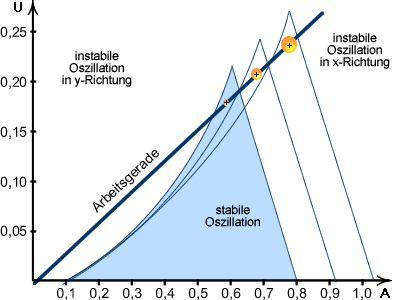
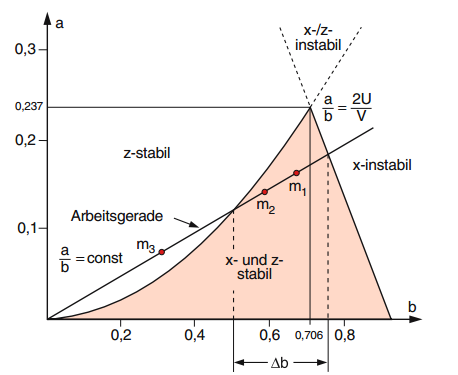
qme vorbereitung endlich fast fertig...-.-

diff --git a/qme/einfuehrung.tex b/qme/einfuehrung.tex
@@ -7,7 +7,7 @@ In der Physik setzt man Massenspektrometer ein, um Informationen über Isotopenz
 Ein Quadrupol-Massenspektrometer erzeugt ein elektrisches Feld. Je nach stärke der anliegenden Felder und dem Ladungs-/Massenverhältnisses der Ionen, bewegen sie sich auf stabilen oder instabilen Bahnen. Je nach dem, wie man diese Parameter variiert, werden verschiedene Ionen auf stabile Bahnen gebracht und so durch den QMS gelassen. Diesen Filtervorgang nennt man Massenfiltern.\\
 Der Quadrupol-Massenspektrometer befindet sich dabei in einer Vakuum-Kammer (Rezipient) um ungewollte Stöße der Ionen mit anderen Teilchen zu vermeiden. Dieses Vakuum wird mit zwei Pumpen erzeugt (siehe Abb. 1) Die Ionen treffen schließlich auf einen Detektor, der den Ionenstrom misst und die Daten weiter an einen Computer sendet. Mit Hilfe eine Software (in unserem Fall LabView) werden anschließend die Daten ausgewertet.
 
-\myImage[9cm]{img/qme1}{Anordnung der Elektroden des Massenfilters}
+\myImage[13cm]{img/qme1}{Quadrupolmassenspektrometer (a) Äquipotentiallinien; (b) hyperbolische Elektroden [3]}
 
 \newpage
 \subsection{Die Mathieuschen Differentialgleichung}
@@ -60,7 +60,7 @@ $$\\$$
 \ddot{z} - \frac{e}{mr_{0}^{2}}(U+V cos (\omega t)) z = 0
 \end{equation}
 
-Das Feld im QMS ist ein periodisches inhomogenes Feld, weswegen sich die zeitabhängigen Terme nicht wegkürzen. Die Gleichungen aus (6) haben die Form von Mathieuschen Differentialgleichungen, deren Normalform lauten:
+Das Feld im QMS (siehe Abb. 1 a)) ist ein periodisches inhomogenes Feld, weswegen sich die zeitabhängigen Terme nicht wegkürzen. Die Gleichungen aus (6) haben die Form von Mathieuschen Differentialgleichungen, deren Normalform lauten:
 
 \begin{equation}
 \frac{d^{2}x}{t\tau^{2}}+(a_{x}+2q_{x}cos (2\tau)) x = 0
@@ -74,52 +74,22 @@ Aus dem Vergleich mit den Gleichungen (6) folgt, dass für die Parameter $a_{x}$
 a_{x} = -a_{z} = \frac{4eU}{mr_{0}^{2}\omega^{2}},\qquad q_{x}= -q_{z}= \frac{4eV}{mr_{0}^{2}\omega^{2}},\qquad \tau =\frac{\omega t}{2}
 \end{equation}
 
+Die Differentialgleichungen haben somit zwei Arten von Lösungen. Bei der einen Lösung bewegen sich die Ionen auf stabile Bahnen. Sie oszillieren in x-z-Richtung und gelangen durch den Quadrupolfilter ohne die Elektroden zu berühren. Bei der zweiten Lösung vergrößert sich die Amplitude der Ionen in x-z-Richtung exponentiell. Dadurch bewegen sich die Ionen auf instabile Bahnen und kollidieren mit den Elektroden (siehe Abb. 2 und 3)
 
+\myImage[7cm]{img/xzs}{Beispiel für eine stabile Bahn}
+
+\myImage[7cm]{img/xzi}{Beispiel für eine instabile Bahn}
 
 \subsection{Stabilitätsdiagramme}
-Um die Bewegung der Ionen durch den Quadrupol mathematisch-physikalisch zu beschreiben, benutzt man einen Plot, in dem man U über A aufträgt. Die Mathieu'schen Gleichungen haben zwei Arten von Lösungen. Eine Lösung führt zu endlichen Amplituden der Oszillationen, das entspricht einer stabilen Trajektorie durch den Quadrupol. Die andere Lösung führt zu Trajektorien, die in x- und/oder y-Richtung exponenziell anwachsen. Auf der Arbeitsgeraden befinden sich alle beobachteten Massen der Ionen. Alle a/q-Werte, die stabile Flugbahnen durch den Quadrupol ergeben, liegen in Abb. 2 innerhalb des schraffierten Feldes. Die Masse des Ions legt das Maximum des Stabilitätsfeldes fest. Stimmt man die Parameter U und A durch, so bewegt man sich auf der Arbeitsgeraden. Durch diese Methode gelangt eine Masse nach der anderen in den Bereich stabiler Oszillationen und kann detektiert werden.
+Um die Bewegung der Ionen durch den Quadrupol mathematisch-physikalisch zu beschreiben, benutzt man einen Plot, in dem man q über a aufträgt (siehe Abb. 4, q entspricht hier b). Das Verhältnis zwischen a und q beträgt konstant $\frac{2U}{V}$. Verändert man nur die Spannungen in einem gewissen Verhältnis zueinander, so bewegt man sich auf der Arbeitsgeraden. Alle a/q-Werte, die stabile Flugbahnen durch den Quadrupol ergeben, liegen in Abb. 5 innerhalb des eingefärbten Feldes. Die Masse des Ions legt das Maximum des Stabilitätsfeldes fest. Durch diese Methode gelangt eine Masse nach der anderen in den Bereich stabiler Oszillationen und kann detektiert werden.
+
+\myImage[9cm]{img/stab}{Komplettes Stabilitätsdiagramm}
 
 \myImage[9cm]{img/qme2}{Beispiel eines Stabilitätsdiagramms 1. Ordnung}
 
-\newpage
-\section{Aufgaben}
-\subsection*{Aufgabe 1 - Einschalten}
-Beim Einschalten des Massenspektrometers muss der Druck im Rezipienten unbedingt kleiner als $5 \cdot 10^{-5}$ mbar sein. Es gilt folgende Reihenfolge zu beachten:\\ 
-1. QMS-Steuergerät ein (Emission steht auf OFF!)\\ 
-2. Externe Spannungsquellen (200 V und 100 V) ein\\ 
-3. Emission auf ON, LANGSAM auf 0.2 mA hochregeln\\ 
-4. Sekundärelektronenverstärker (SEV) auf ON\\
-Die Geräte werden nach dem Experiment in umgekehrter Reihenfolge wieder ausgeschaltet. Des weiteren sind folgende Spannungen einzustellen:\\ 
-UFR= 113 V   (Formationsraum), \\
-UKA= 0 V   (Kathode), \\
-UFA= 106 V   (Feldachse). \\
-Das Einschalten des Heizdrahts (Filament) hat einen Druckanstieg im Rezipienten zur Folge. Wenn der Druck wieder den Ausgangswert erreicht hat (nach ca. 30 bis 40 min) kann mit der Messung begonnen werden. \\
+Um die Massen zu unterscheiden, definiert man die sogenannte Massenauflösung mit der Formel:
+\begin{equation}
+M = \frac{m}{\Delta m}
+\end{equation} 
 
-\subsection*{Aufgabe 2 - Restgas Messung} 
-Die Massenspektren werden mit Hilfe eines LabView-Programms auf dem PC aufgenommen. Die Auflösung des QMS sollte bei dieser Messung kalibriert sein (Resolution auf CAL). Bei zu kleiner Intensität kann mit erhöhter Verstärkung gemessen werden. Welche Massen sind zu erwarten? \\
-Normieren Sie das Spektrum auf den Druck im Rezipienten,sodass die Peak-Intensitäten dem Partialdruck des jeweiligen Atoms bzw. Moleküls entsprechen. (Massen $0-100$, 0.1 steps, 100 ms pro Kanal) 
-
-\subsection*{Aufgabe 3 - Testgas 1 (Argon) dosieren}
-Achtung: Vor dem Einlassen des Testgases unbedingt sowohl die Emission als auch den SEV ausschalten! Das Dosierventil ist mit äußerster Vorsicht zu bedienen! Es ist zu vermeiden, dass der Druck beim Öffnen des Ventils auf größer als 5 $5 \cdot 10^{-4}$ mbar ansteigt, da ein zu großer Druckstoß die Pumpen beschädigen kann. Zur Dosierung der Testgase wird wie folgt vorgegangen: Zunächst wird das Ventil zur Vorpumpe (V3) geschlossen. Dann wird das Ventil zum Testgas (V1A-D) langsam (um einen Druckstoß auf das Dosierventil zu vermeiden) komplett geöffnet und wieder geschlossen, so dass sich Testgas in den Zuleitungen befindet. Das Testgas wird dann über das Dosierventil eingelassen. Für die Messungen ist ein Druck von ca. $5 \cdot 10^{-6}$ mbar zu stabilisieren. Ein Emissionsstrom von 0.1 mA ist für die folgenden Messungen ausreichend. 
-
-\subsection*{Aufgabe 4 - Testgas 1 Messung}
-Messen und analysieren Sie das Spektrum des Testgases analog dem Restgas-Spektrum. Vergessen Sie nicht, für jedes Spektrum den Druck zu notieren! (Massen 0-100, 0.1 steps, 100 ms pro Kanal)\\
-Pumpen Sie nach der Messung das Testgas wieder ab: Schließen Sie zunächst das Dosierventil bis zum Anschlag. Schließen Sie danach das Ventil zwischen Vor- und Turbopumpe (V4). Nun kann das Testgas durch vorsichtiges Öffnen des Ventils zur Vorpumpe (V3) abgepumpt werden. Warten Sie 10 Minuten bis die Zuleitungen vollständig leergepumpt sind. Vergessen Sie nicht, nach spätestens 15 Minuten das Ventil V4 wieder zu öffnen! 
-
-\subsection*{Aufgabe 5 - Testgas 2 (Aceton) und Testgas 3 (Ethanol) dosieren und messen}
-Dosieren Sie Testgas 2 auf ca. $5 \cdot 10^{-6}$ mbar ($5 \cdot 10^{-5}$ mbar). Messen Sie die Spektren bei einem Emissionsstrom von 0.1 mA (Druck notieren). (Massen $0-100$, 0.1 steps, 100 ms pro Kanal) 
-
-\subsection*{Aufgabe 6 - Fragmentierungsmuster von Aceton (Testgas 2) und Ethanol (Testgas 3)}
-Weisen Sie die verschiedenen Massenpeaks den gebildeten ionischen Fragmenten zu und erklären Sie deren Bildung.
-
-\subsection*{Aufgabe 7 - Massenspektrum von Luft} 
-Dosieren Sie Luft ($5 \cdot 10^{-6}$ mbar) in den Rezipienten und messen Sie das Massenspektrum. Weisen Sie die verschiedenen Massenpeaks den Bestandteilen der Luft zu. 
-
-\subsection*{Aufgabe 8 - Auflösungsvermögen des Spektrometers} 
-a) Leiten Sie anhand des Stabilitätsdiagramms und des Zusammenhangs zwischen der Masse m und dem Parameter b (Höhe der Wechselspannung) im Stabilitätsdiagramm die Beziehung m/$\Delta$ m $\approx$ const. ab.\\
-
-b) Nehmen Sie bei verschiedenen Einstellungen der Auflösung ($2 – 6$, Resolution auf VAR) Massenspektren von Luft auf. Normieren Sie diese sinnvoll (!) und stellen Sie sie 
-gemeinsam in einem Diagramm dar. Was beobachten Sie? Tragen Sie anschließend $\Delta$m über m auf. Ist $\Delta$m proportional zu m? Welche Abweichungen treten auf und wie 
-kann man sie erklären? (Massen $0-50$, 0.1 steps, 200 ms pro Kanal)\\
-
-c) Untersuchen Sie die Auflösung m/$\Delta$m als Funktion der Beschleunigungsspannung $UB = UFR - UFA$ für die Ionen. Variieren Sie hierzu UFA im Bereich von 110 bis 0 V. Stellen Sie die gemessenen Spektren gemeinsam in einem Diagramm dar und vergleichen Sie es mit dem Diagramm aus 8b. Stellen Sie anschließend für zwei verschiedene Massen die Halbwertsbreite $\Delta$m über die Anzahl der Oszillationen der Ionen im Stabsystem dar (Länge des Stabsystems l=0.1 m, Hochfrequenz $\nu$ =2.5 MHz). (Massen $0-50$, 0.1 steps, 200 ms pro Kanal) 
+wobei $\Delta m$ die kleinste  auflösbare Massendifferenz ist.

diff --git a/qme/quelle.tex b/qme/quelle.tex
@@ -2,4 +2,6 @@
 \begin{itemize}
 \item [1] http://www.hiden.de/
 \item [2] Wolfgang Paul. Electromagnetic Traps for charged and neutral particals,\\ (Nobel Lecture), Seite 604, Figur 1b)
+\item [3] FU - Berlin Fortgeschrittenenpraktikum Anleitung
+\item [4] Wolfgang Demtröder. Experimentalphysik 3: Atome, Moleküle und Festkörper (SpringerLehrbuch) (German Edition). Springer, 2010.
 \end{itemize} 
